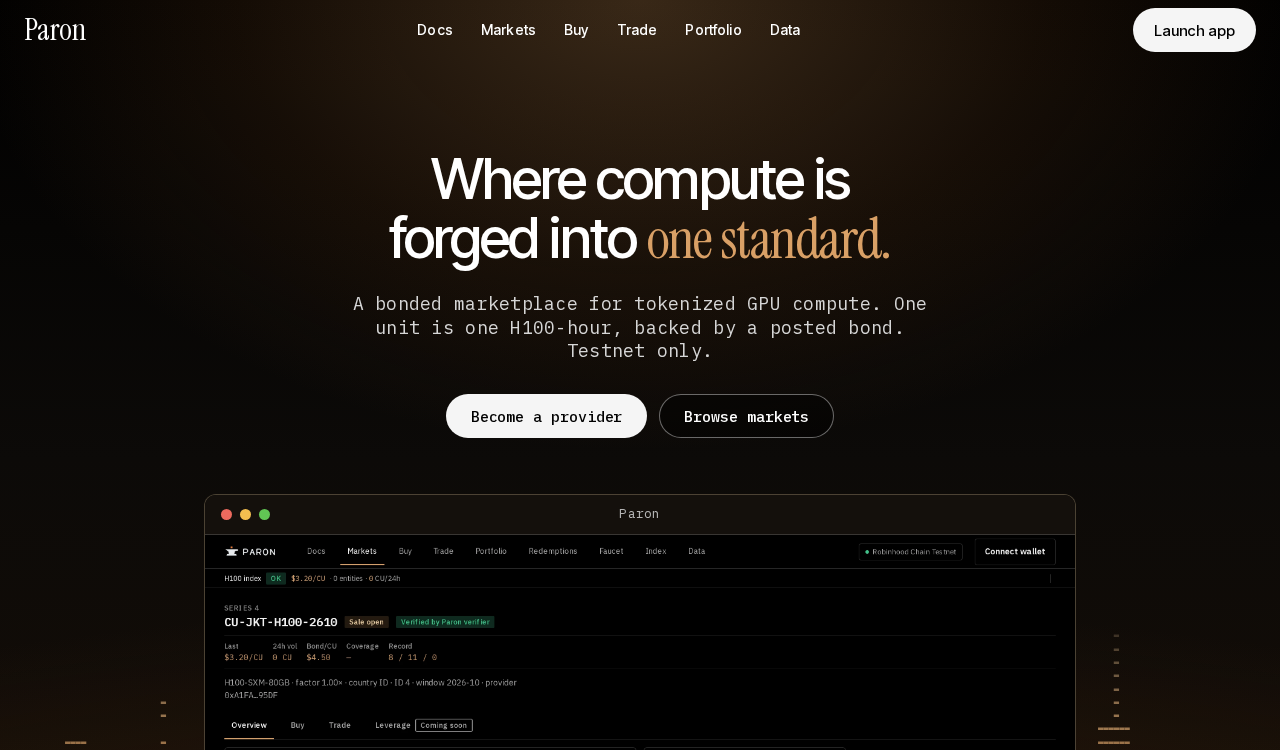
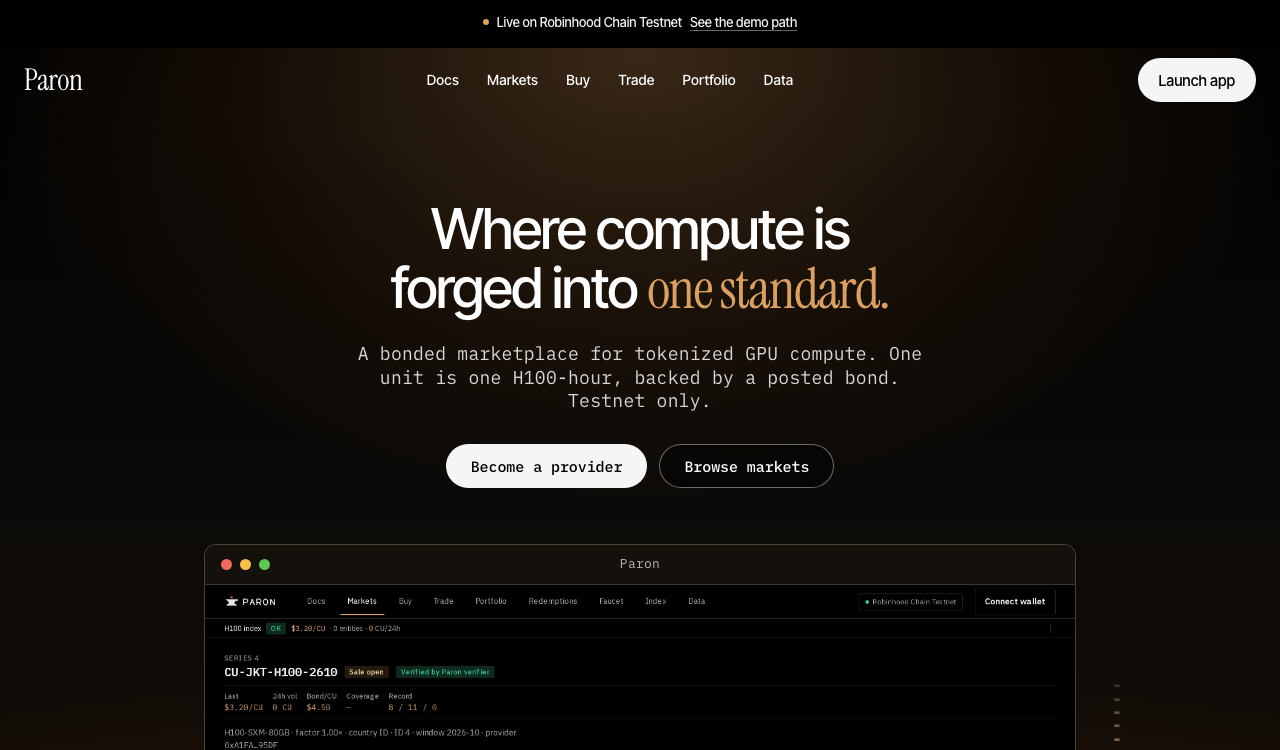
web: close the open S2 items (provider gate, 390 skyline, tutorial image 01)

diff --git a/web/app/provider/page.tsx b/web/app/provider/page.tsx
@@ -1,6 +1,7 @@
 "use client";
 
 import { useEffect } from "react";
+import Link from "next/link";
 import { useRouter } from "next/navigation";
 import { isAddress } from "viem";
 import { useAccount } from "wagmi";
@@ -15,10 +16,35 @@ export default function ProviderPage() {
     }
   }, [address, isConnected, router]);
 
+  if (isConnected && address) {
+    return (
+      <div>
+        <h1>Provider</h1>
+        <p className="muted">Opening your dashboard.</p>
+      </div>
+    );
+  }
+
   return (
     <div>
       <h1>Provider</h1>
-      {!isConnected || !address ? <p>Connect wallet</p> : <p className="muted">Opening your dashboard.</p>}
+      <p className="lede">
+        List GPU capacity as compute units. Connect wallet in the top bar to open your provider dashboard with your
+        series, redemptions, and agent status.
+      </p>
+      <section className="panel">
+        <h2>Before you list</h2>
+        <ol style={{ listStyle: "decimal", paddingLeft: 20, margin: 0, display: "grid", gap: 8 }}>
+          <li>Your wallet needs a provider attestation (role 1) from the verifier, linked to your address.</li>
+          <li>Each series locks a bond of 1.5× the primary price before any unit exists.</li>
+          <li>If a redemption misses its deadline, any wallet can claim the bond for the holder.</li>
+        </ol>
+        <div style={{ marginTop: 16 }}>
+          <Link className="btn ghost" href="/docs#step-13">
+            Read the provider steps
+          </Link>
+        </div>
+      </section>
     </div>
   );
 }

diff --git a/web/app/landing.css b/web/app/landing.css
@@ -563,7 +563,7 @@
 @media (max-width: 640px) {
   .landing { --gutter: 16px; }
   .landing .hero-visual { padding-top: 128px; }
-  .landing .hero-stage-wrap { height: 360px; margin-top: 40px; }
+  .landing .hero-stage-wrap { height: 360px; margin-top: 136px; }
   .landing .win-shot { width: 190%; max-width: none; }
   .landing .win-bar { grid-template-columns: 56px 1fr 56px; height: 32px; padding: 0 10px; }
   .landing .win .dots { gap: 6px; }
@@ -572,7 +572,8 @@
   .landing .sky {
     font-size: calc(100cqi / 78);
     line-height: 1.35;
-    height: 240px;
+    height: 150px;
+    bottom: 360px;
     overflow: hidden;
     display: flex;
     align-items: flex-end;
